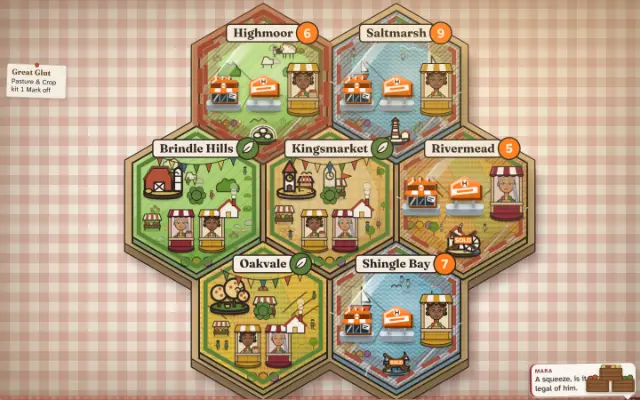
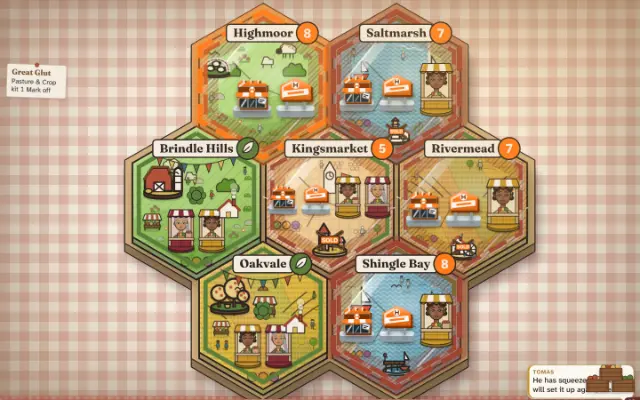
Cathnivore key art re-shot (regionGround.ts changed: memo only, art unchanged); lane A 22:51 notes
Claude-Session: https://claude.ai/code/session_01SimvMNEWqF9u68uxp4P8Cc

Changed region(s): [[0.2812, 0.0, 0.8438, 0.99], [0.8125, 0.9, 1.0, 1.0], [0.5625, 0.0, 0.6875, 0.06]]

diff --git a/PROGRESS.md b/PROGRESS.md
@@ -3,25 +3,12 @@
 Short by design (SPEC 16: under 150 lines). v1's full history (M0 to M7, every session's notes and the full deploy log) is in `docs/archive/PROGRESS-v1.md`; search it with grep and never read it in full.
 
 ## Now
+- Lane A (22:51 11-26): CI green on 3fc4c720; its E2E red was infrastructure (one shard's browser install: the runner's packages.microsoft.com apt source 403'd; every shard that ran passed); e2e.yml now drops that source before retrying (11a3c8c9). **Gate 7, two more cuts** (7348e3b1, 62ab820b): stalls draw their producer through a <use> of one portrait per producer and face (title board 2233 -> 1850 nodes, pixel-identical at P and D); pickSpot's inside-the-hex test cached per scale (pieceLayout 103 -> 58 ms, landmarkSpot 91 -> 43 ms at 4x); regionGround memoized. A/B here: FCP 900 -> 840 ms (4x traces); Lighthouse base 82/85/85/82, new 87/85/86. Found: the mount's forced layouts (measure, fitPlaques) are the page's and board's first layouts, not extra; what's left before FCP is React's ~2,800-node commit, style (166 KB critical CSS) and layout. Post-FCP animation frames: 532 of 558 board animations fail compositing with reason 131076 (an SVG-target reason); the next cut. Open unclaimed: 319, 543, 722-726.
 - Lane A (21:51 11-26): CI and E2E green on 5ae73a45. **Gate 7 root work** (blocks tomorrow's 19:51 release): 3fc4c720 builds the board once at its measured size (the title's first task 530-635 -> 436-475 ms at 4x, 3+3 traces). Lighthouse here reads 80-86 on identical builds, so a change under ~300 ms can't be seen in a 3-run score. Found: (1) after FCP the long tasks are animation frames: the board's ~70 SVG transform animations (folk, awnings, idle sheep/boats, amb-glide) aren't composited, so every frame re-runs Layout 20-37 ms + Paint at 4x; that is the next cut (fewer animated SVG nodes, or one composited HTML layer); (2) a boot card painted from index.html (a fixed .boot div after #root, its CSS in the critical sheet, faded by main.tsx after two rAFs) moves FCP 3.1 -> 1.6 s but puts the mount task after FCP, so TBT 150 -> 850 and the score falls (71-72): only worth it once the mount is under ~100 ms; its text also loses LCP to the Daily button (58k px2). Open unclaimed: 319, 543, 722-726. Lock released.
 - Lane A (20:51 11-26, release retry): **release not retried: gate 7 needs a root fix first** (Lighthouse alone on 6ddb7132 reads 78/81/78 here, gate is 85). Diagnosis: FCP = LCP = the menu's Daily line at 3.2-3.4 s because the first render includes the title board (2,235 of 3,213 DOM nodes, one ~860 ms task at 4x incl. forced layouts in Map's getScreenCTM measure and fitPlaques). Tried and reverted: mounting the board a frame after first paint (FCP/LCP 3.4 -> 2.6 s, but TBT 280 -> 460-650: same 79 average over 3+3 runs), and startTransition (worse). The root fix is cutting the board's mount cost on the title (fewer nodes: e.g. the static terrain/land layers drawn as one cached image, folk/pieces after paint), then deferring it. 726: portfolio phone gutter fixed (e2e), seed counter closed by measurement; handed back. **The 19:51 session on 11-27 releases** once gate 7 is fixed. Open unclaimed: 319, 543, 722-726. Lock released.
 - Lane A (19:51 11-26, release session): CI and E2E green on 6ddb7132. **Release not shipped: gate 7 Lighthouse 79, rerun of part c alone 77** (gates 1-6 passed, 2943 unit tests). Alone by hand: 6ddb7132 reads 81/84, the 11-25 release 6100ff2a 83/86 today (91 yesterday), so most of the drop is the machine and the build is ~2 points worse (index.js +4 KB, critical CSS +4 KB since 6100ff2a; FCP 3.2 s). Per DECISIONS 11-22 not rerun until lucky: **the 20:51 session retries once**; root fix wanted for margin (critical CSS 170 KB raw / 34 KB sent is the render-blocking piece). 726 slice looked at and handed back: the phone title with full names (shortNames off) gives 4 of 7 full at 14.3 px but Highmoor's plate goes under Cath's arm and Saltmarsh's disc onto its 'h'; needs the title's own fit (Cath's arm as an obstacle). Open unclaimed: 319, 543, 722-726. Lock released.
 - Lane A (18:51 11-26): CI green on 703c61ab, E2E green on 8e0eb921. 719 done (NIGHT SHIFT: the arrival stall staffed, a fishmonger and a customer on every tier; near-spawn census L 10, D 13; e2e cathode-street L and D; cathode-perf alone within budget). Planned 722-726 (shots e2e/screenshots/plan1126d, one subagent critique). No full check run. **The 19:51 session is the release session.** Open unclaimed: 319, 543, 722-726. Lock released.
 - Lane A (17:51 11-26): CI green on 8d0ba6e1, E2E green on c79bb817. 721 done (NIGHT SHIFT briefing: the canal's and FLOODED's names on paper plates, the canal's clear of the flyover; Hedgerow 2D: a tower's keep-off box measured from its sprite, so the swarm badge and Cath's line keep off the windmill's sails and mast tip at l34; Hedgerow key art re-shot). 719 slice 1 (three people near the market spawn on every tier), handed back. No full check run. Open unclaimed: 319, 543, 719. Lock released.
-- Lane A (16:51 11-26): CI red on ad848086/77d13356 fixed (keyart-fresh: Cathnivore key art re-shot after 717). e2e board-objects fixed (desktop case at 1280x800, below item 708's ledger). 718 done (portfolio phone: Cath's bubble names the print playing; NIGHT SHIFT's print lit by a neon spill, luminance 0.10 -> 0.13). 720 done (Hedgerow map: bunting on cleared stops, lane trodden to Next and pale beyond, locked stops say what opens them). 721: Runnel solved D closed by decision; still open: l34 2D D dodge, NIGHT SHIFT briefing labels; handed back. Open unclaimed: 319, 543, 719, 721. Lock released.
-- Lane A (15:51 11-26): CI and E2E green on 5741242a. 717 done (Cathnivore board alive: shoppers in every region by state, awnings stir, mill smoke; e2e board-folk). Found: e2e/board-objects.spec.ts fails at D since item 708's ledger hid the scoreboard objects (not in CI's gate-5 list, so unseen; fix or retire the spec). No full check run. Open unclaimed: 319, 543, 718-721. Lock released.
-- Lane A (14:51 11-26): E2E red on 12f6b5f9 fixed at the root (runnel-tiles channel contrast 2.85-3.25 on CI: the phone board's garden cut grew on every re-run against a 100% height still settling while the fonts load, so about one load in five drew the board 15-35% small; now a px cap on its drawn height, identical in 10 of 10 loads; clouds still under reduced motion). The cathode 3/8 red on 12f6b5f9 was the sideways FIRE overlap e1b610ed already fixed. Planned 717-721 (shots e2e/screenshots/plan1126c, one subagent critique); 721 slice 1 (three Cathnivore points closed by measurement), handed back. No full check run. Open unclaimed: 319, 543, 717-721. Lock released.
-- Lane A (13:51 11-26): E2E red on 66d30f33 fixed (cathode-phone-controls: item 712's Pin fist 1.2% onto FIRE sideways; phone fist further in, half the lean). 714 done (Cathnivore phone board names every region in full: plates step down to 17.5 units, 12 px+, before shortening). 716 done (NIGHT SHIFT phone pick gun propped upright right of her, clear of the Ghost; Market badge measured whole; campaign D column closed by decision). 715 done (portfolio D wall tours: prints play in turn, Cath points at and names the playing one until someone points). Planning started but not finished (mark removed; partial shots e2e/screenshots/plan1126c, no critique): the next session plans. Open unclaimed: 319, 543. Lock released.
-- Lane A (12:51 11-26): 713 done (Hedgerow: Cath speaks mid-round, a line with her portrait in a field corner on leak, boss, combo, Pie, Rally or neighbours, one per 8 s, off lane/rack/Go; Rally a 0.8 s cast; 2D idle sway, 50 px floor on small fields; key art re-shot). 716 slice 1 (Hedgerow P grip clear of the packets; two closed by measurement), handed back. CI on 66d30f33 not in at the start (9fbf2df2's CI red, fixed by 66d30f33; its E2E green). No full check run. Open unclaimed: 319, 543, 714, 715, 716. Lock released.
-- Lane A (11:51 11-26): E2E red on df1164bf was infrastructure (a stale apt index 404'd one shard's browser install; e2e.yml now refreshes and retries); 9d631034's E2E green. 711 done (Runnel dry fields red sun-baked clay, crazed, seedling drooped; water sets off mid-turn; e2e runnel-parched); CI red on 9fbf2df2 (runnel-tilefaces' model still mixed green) fixed in 66d30f33. 712 done (NIGHT SHIFT Pin: wound leather grip, worn steel, collars; held forward-right in the lower-right box at D and L; thumb closed on the grip; perf within budget alone). No full check run. Open unclaimed: 319, 543, 713-716. Lock released.
-- Lane A (10:51 11-26): 709 done (slice 4: the lit class gun large across the foot of her stage on an upright phone, the sheet's weapon row one line, a third tree stamp wraps; e2e cathode-classpick). 678 closed by measurement (item 652's framing meets it; e2e cathode-title-phone now holds the accept). Planned 711-716 (shots e2e/screenshots/plan1126b, one subagent critique; 716 includes 709's stage gun crossing the Ghost's skirt). **E2E red on 3e9bd1a0:** runnel-tiles (P, light) 'channel vs tile, morning,clouds' read 2.788 < 3 on CI, identically in the run and the alone-retry (so deterministic there), yet passes 5/5 locally on its fixed 17 Nov board (--retries=0, --repeat-each=4); nothing Runnel-side changed since the green 6dbcbd6b (same spec passed on CI at 10:38). Suspect something under morning,clouds keyed to the real clock or the runner (cloud drift?): check df1164bf's E2E, then print r.chan per tile on CI's frame and fix at the root. No full check run. Open unclaimed: 319, 543, 711-716. Lock released.
-- Lane A (09:51 11-26): E2E red on 5773e1e6 fixed (hedgerow-phone-crisp: a 'Bridge up!' callout dodged under the l27 windmill rose back into it; the dodge now keeps the whole climb clear). 709 slice 3 (phone stats one row of ring dials, a tap opens the bars), handed back: the gun across her foot still open. No full check run. Open unclaimed: 319, 543, 678, 709. Lock released.
-- Lane A (08:51 11-26): E2E red on 312b609a fixed (tutorial desktop: the chapter seal card under item 708's ledger took the Menu click; fonts.spec: ledger figures left Marrow Figures); seals stand above Cath's dock on an upright phone (hidden whole before); Pell steps down a size clear of a chapter's name plates. 709 slices 1-2 (phone roster in colour, red rule under the pick, 8 px tab gaps; trees one line of stamps opening on 'What they do'), handed back: the role carousel with the gun across her foot still open. Open unclaimed: 319, 543, 678, 709. Lock released.
-- Lane A (07:51 11-26): E2E red on 1d585e26/63ce086e fixed (hedgerow-convoy-gap desktop: a lorry 20 px onto the depot; the lane start now tests the real body box, bends never ease back behind it). 710 done (Hedgerow l27 3D depot whole: the fit waits for placement, the lean sees every corner, the view steps back; new e2e hedgerow-depot3d-frame). No full check run. Open unclaimed: 319, 543, 678, 709. Lock released.
-- Lane A (06:51 11-26): E2E red on 991b02d3 fixed (cathode-classpose: one page load, the pick's own class switch; 13.6 -> 2.7 min). 708 done (D 1400x860+: readings a ruled paper ledger, 22 px figures; Pell 120 px). 710: setup D notice and NIGHT SHIFT Ledger ghost fixed, MUM closed; the Hedgerow l27 3D depot cut still open, handed back. Open unclaimed: 319, 543, 678, 709, 710. Lock released.
-- Lane A (05:51 11-26): 707 done (Hedgerow 2D convoy: six lane rungs drawn from above, one silhouette a class; 7 px between bodies, clear of the depot; e2e hedgerow-convoy-gap). 708 measured and handed back. Open unclaimed: 319, 543, 678, 708-710. Lock released.
-- Lane A (04:51 11-26): E2E red on 82447b03 fixed (cathode-phone-viewmodel desktop, a timing flake for the third time: the dip wait now counts frames). 706 done (Hedgerow 2D gains pooled one '+N' a spot; one swarm badge a lane, docked by its depot). 710 looked at and handed back (setup D flyer measured, still over the board frame and stall; the Hedgerow rack peek closed by design). Full npm run check passed (342 files, 2903 tests, lint, fuzz, build). Open unclaimed: 319, 543, 678, 707-710. Lock released.
-- Lane A (03:51 11-26): 703 done (shadow intensity under the low sun, green pickup, hue unit test, key art re-shot). Open unclaimed: 319, 543, 678, 706-710. Lock released.
 - Round-7 'hang' (owner session note, 11-16) checked by lane A 11:10: test-only. `?e2eAutoplayUntil` halted the AI teammate's seat too, so its Kingsmarket bonus choice was never made; real play uses the worker path, which acts on a decision the AI owns. The stop now applies to the human's seat only.
 - E2E red on hedgerow-water (11-15 04:35) fixed by lane A 05:10: the spec samples Rivermead's willow pond (level 31); Saltmarsh's salt pan is pink brine by design (item 399).
 - Owner session (11-09): the owner's release never landed and the pause ended 11-11 02:00 UTC. **Open:** Hedgerow level 12 at D: since item 250's portrait the bubble covers 21% of empty plots; the D bound is 30% there until the placement is reworked.
@@ -55,6 +42,7 @@ None (Vercel deployed 9aee11e on 2026-10-12). (The App Store launch is postponed
 - 2026-11-03 02:18 `69a74c7`: urgent fix (NIGHT SHIFT touch buttons that never took a tap) plus plan items 44 and 45 and 46 slices 1-2 in progress. Gates 1-8 passed on the third run: the first two failed on a real desktop Invest-card overflow (fixed, 4e8121f), a load timeout in the gun-parts test (budget raised) and the CSS ratchet (z-index literal, two raw colours; fixed); live smoke passed outright; tag push 403 (harmless).
 
 ## Session log (newest first, last 15)
+- **2026-11-26 22:51 lane A:** gate 7 (3 code commits incl. e2e.yml). e2e board-stalls, piece-art, producer-faces, board-folk, title-attract (P and D, --retries=0; the 4x long-task case flakes on the base build here too, new 3 of 3); unit landmark-spot, piece-layout, region-ground, region-folk, title-board, map-layout, stall-layout, piece-looks, producer-art; full npm run check: typecheck, lint, 2942 of 2943 unit tests (keyart-fresh: Cathnivore key art re-shot after regionGround.ts changed, then green); fuzz and build not reached in that run (CI runs them).
 - **2026-11-26 21:51 lane A:** gate 7 (1 code commit, 3fc4c720). e2e title-table, -plates, -fit, -attract, -opening, region-names-phone, board-folk, -landmarks, -pieces, -scale, -stalls, -tokens, -control, -doubt, region-status, -closeup, phone-map-hero, table-zoom, title (P and D, --retries=0): all pass but title-attract:60 (52 ms task, fails the same on the base) and board-scale:11 D (known); board-tokens passes alone. Full npm run check run. Full npm run check passed (345 files, 2943 tests).
 - **2026-11-26 20:51 lane A:** gate 7 diagnosis (no code kept: deferral was score-neutral), 726 two points (1 code commit). e2e portfolio-present (P and D, 5 passed, --retries=0); ui-css-lint, keyart-fresh; Lighthouse x9 alone (scratchpad lh-*.json). Shots scratchpad pf-before/pf-after, h726 (l27 2D P and D). No full check.
 - 2026-11-26 19:51-20:45 lane A: release run, gate 7 failed (Lighthouse 79, 77 alone); not shipped, handed to the 20:51 retry with measurements. 726 title-names attempt reverted (plates collide with Cath's arm and a disc).
@@ -69,4 +57,3 @@ None (Vercel deployed 9aee11e on 2026-10-12). (The App Store launch is postponed
 - **2026-11-26 09:51 lane A:** E2E fix + 709 slice 3 (2 code commits). hedgerow-phone-crisp reproduced locally and passing after the fix (with hedgerow-swarm), new unit test in hedgerow-callout-dodge; cathode-classpick full file 22 passed before the last tweak, its phone stat test passing after; shots P/D in scratchpad s709 (D unchanged). No full check.
 - **2026-11-26 08:51 lane A:** E2E fix + 709 slices (4 code commits). tutorial (desktop, the CI failure), chapter-seals (new sizes test, P 390/375 and D 1440; the old phone 'open to labels' test failed on the base locally, the dock hid the card: passes now), hud-ledger (new chapter check), rival, drawer-tabs; fonts.spec Cathnivore (site); cathode-classpick (new 709 test; 'stat sheet reads' updated for the trees line), cathode-front, -skillpreview, -armoury (34 passed, 0 failed when the session ended; the run was left to CI); ui-css-lint, cathode-type, keyart-fresh, tsc, eslint; --retries=0. No full check (CI covers). Shots scratchpad tut-fail, seal-*, pell-after, s709 (before, a1 P/L, a2 P/D).
 - **2026-11-26 07:51 lane A:** E2E fix + 710 done (2 code commits + key art). hedgerow-convoy-gap, -swarm (29 drawn with a padded depot-mouth rule; strict overlap keeps 30), -convoy, -depot, -depot-clear, -fleet-read; hedgerow-depot3d-frame (new, l27/l21, P and D: failed 4/4 on l27 before), -3dframe, -camera3d, -closeframe, -depot3d (33 passed). Shots e2e/screenshots/r710, swarm45. Key art re-shot.
-- **2026-11-26 06:51 lane A:** E2E fix + 708 done + 710 slices (5 code commits). cathode-classpose (P 1.3 min, D 2.7 min); hud-ledger (new: ledger sizes, Pell 120, no overlaps, AA ledger and slab, light and dark), rival, board-scale, gantry-slate, drawer-tabs (updated: word beside its figure), phone-counter; setup-week-notice (new) and all setup-* specs (52); cathode-frontpage, -title-phone (P); ui-css-lint, cathode-type, keyart-fresh, tsc, eslint; --retries=0. board-scale:11 and drawer-tabs:5 fail identically on the base locally (left to CI). No full check (CI covers). Shots scratchpad s708 (before, a1-a8 incl. 1400 and 1920), s710 (setup before/a1/a2, mum, ns before/a1/a2, h27-3d).

diff --git a/docs/archive/PROGRESS-sessions.md b/docs/archive/PROGRESS-sessions.md
@@ -28,3 +28,19 @@
 - **2026-11-25 12:51 lane A:** 694 done, 692 slice 1 (3 code commits). runnel-rail-cath (new: 1440 rail figure, face 60+, bubble off face, mood on tap/solve, reduced motion, 1280 stays in the valley), runnel-one-cath (full-length test at 1280x800, bubble checked against her head in the rail), runnel-win (1440 + 1280 postcard), all Runnel e2e P and D (ditch D a load flake, passes alone); hedgerow-panel-share (new), tray, packets, attack (load flake, passes alone), cathlevel 3D footprints (passes alone) and 20 more Hedgerow D specs; runnel/hedgerow-host-mood unit, css lint, keyart-fresh (Hedgerow re-shot), tsc, eslint; --retries=0. Shots scratchpad b-/a1-* (Runnel P, D, solved), hb-/ha-/hc-h27/h34-D.
 - **2026-11-25 15:51 lane A:** 692 done (1 code commit), 695 looked at. hedgerow-tray, -rack, -rack-roles, -packets, -panel-share (D; tray:120 a webfont flake on the base too, 1 of 3 red; now waits for fonts, 4/4), ui-css-lint, tsc, eslint; --retries=0. No full check (13:51 ran one). Shots e2e/screenshots/h692, g695.
 - **2026-11-25 17:51 lane A:** E2E diagnosis + 693 done + 695 slice 5 (3 code commits). setup-stall-pair (new, D x2 + phone), setup-desktop/-steps/-objects/-focal/-table/-spread/-phone/-placecards/-maps/-opening, title-bubble (all pass, --retries=0); cathode-phone-viewmodel desktop passes alone locally; css lint, cathode-type, keyart-fresh, tsc, eslint. No full check (CI covers). Shots /tmp/claude-0/b67/a3-*, e2e/screenshots/ns695.- **2026-11-26 05:51 lane A:** 707 done (2 code commits + key art twice). hedgerow-convoy-gap (new, P and D: 0 overlaps, 0 on the depot), hedgerow-readable, -vehicles (courier 19 px at P failed first; lengthened), -convoy, -fleet-read, -closeframe, -swarm, -single-file (all pass); hedgerow unit tests (74 files) incl. new hedgerow-fleet-top (18), keyart-fresh, tsc, eslint; --retries=0. No full check (04:51 ran one; CI covers). Shots scratchpad b707 (before), a707c, a707e (l27, l34 P and D), b708.
+
+- Lane A (16:51 11-26): CI red on ad848086/77d13356 fixed (keyart-fresh: Cathnivore key art re-shot after 717). e2e board-objects fixed (desktop case at 1280x800, below item 708's ledger). 718 done (portfolio phone: Cath's bubble names the print playing; NIGHT SHIFT's print lit by a neon spill, luminance 0.10 -> 0.13). 720 done (Hedgerow map: bunting on cleared stops, lane trodden to Next and pale beyond, locked stops say what opens them). 721: Runnel solved D closed by decision; still open: l34 2D D dodge, NIGHT SHIFT briefing labels; handed back. Open unclaimed: 319, 543, 719, 721. Lock released.
+- Lane A (15:51 11-26): CI and E2E green on 5741242a. 717 done (Cathnivore board alive: shoppers in every region by state, awnings stir, mill smoke; e2e board-folk). Found: e2e/board-objects.spec.ts fails at D since item 708's ledger hid the scoreboard objects (not in CI's gate-5 list, so unseen; fix or retire the spec). No full check run. Open unclaimed: 319, 543, 718-721. Lock released.
+- Lane A (14:51 11-26): E2E red on 12f6b5f9 fixed at the root (runnel-tiles channel contrast 2.85-3.25 on CI: the phone board's garden cut grew on every re-run against a 100% height still settling while the fonts load, so about one load in five drew the board 15-35% small; now a px cap on its drawn height, identical in 10 of 10 loads; clouds still under reduced motion). The cathode 3/8 red on 12f6b5f9 was the sideways FIRE overlap e1b610ed already fixed. Planned 717-721 (shots e2e/screenshots/plan1126c, one subagent critique); 721 slice 1 (three Cathnivore points closed by measurement), handed back. No full check run. Open unclaimed: 319, 543, 717-721. Lock released.
+- Lane A (13:51 11-26): E2E red on 66d30f33 fixed (cathode-phone-controls: item 712's Pin fist 1.2% onto FIRE sideways; phone fist further in, half the lean). 714 done (Cathnivore phone board names every region in full: plates step down to 17.5 units, 12 px+, before shortening). 716 done (NIGHT SHIFT phone pick gun propped upright right of her, clear of the Ghost; Market badge measured whole; campaign D column closed by decision). 715 done (portfolio D wall tours: prints play in turn, Cath points at and names the playing one until someone points). Planning started but not finished (mark removed; partial shots e2e/screenshots/plan1126c, no critique): the next session plans. Open unclaimed: 319, 543. Lock released.
+- Lane A (12:51 11-26): 713 done (Hedgerow: Cath speaks mid-round, a line with her portrait in a field corner on leak, boss, combo, Pie, Rally or neighbours, one per 8 s, off lane/rack/Go; Rally a 0.8 s cast; 2D idle sway, 50 px floor on small fields; key art re-shot). 716 slice 1 (Hedgerow P grip clear of the packets; two closed by measurement), handed back. CI on 66d30f33 not in at the start (9fbf2df2's CI red, fixed by 66d30f33; its E2E green). No full check run. Open unclaimed: 319, 543, 714, 715, 716. Lock released.
+- Lane A (11:51 11-26): E2E red on df1164bf was infrastructure (a stale apt index 404'd one shard's browser install; e2e.yml now refreshes and retries); 9d631034's E2E green. 711 done (Runnel dry fields red sun-baked clay, crazed, seedling drooped; water sets off mid-turn; e2e runnel-parched); CI red on 9fbf2df2 (runnel-tilefaces' model still mixed green) fixed in 66d30f33. 712 done (NIGHT SHIFT Pin: wound leather grip, worn steel, collars; held forward-right in the lower-right box at D and L; thumb closed on the grip; perf within budget alone). No full check run. Open unclaimed: 319, 543, 713-716. Lock released.
+- Lane A (10:51 11-26): 709 done (slice 4: the lit class gun large across the foot of her stage on an upright phone, the sheet's weapon row one line, a third tree stamp wraps; e2e cathode-classpick). 678 closed by measurement (item 652's framing meets it; e2e cathode-title-phone now holds the accept). Planned 711-716 (shots e2e/screenshots/plan1126b, one subagent critique; 716 includes 709's stage gun crossing the Ghost's skirt). **E2E red on 3e9bd1a0:** runnel-tiles (P, light) 'channel vs tile, morning,clouds' read 2.788 < 3 on CI, identically in the run and the alone-retry (so deterministic there), yet passes 5/5 locally on its fixed 17 Nov board (--retries=0, --repeat-each=4); nothing Runnel-side changed since the green 6dbcbd6b (same spec passed on CI at 10:38). Suspect something under morning,clouds keyed to the real clock or the runner (cloud drift?): check df1164bf's E2E, then print r.chan per tile on CI's frame and fix at the root. No full check run. Open unclaimed: 319, 543, 711-716. Lock released.
+- Lane A (09:51 11-26): E2E red on 5773e1e6 fixed (hedgerow-phone-crisp: a 'Bridge up!' callout dodged under the l27 windmill rose back into it; the dodge now keeps the whole climb clear). 709 slice 3 (phone stats one row of ring dials, a tap opens the bars), handed back: the gun across her foot still open. No full check run. Open unclaimed: 319, 543, 678, 709. Lock released.
+- Lane A (08:51 11-26): E2E red on 312b609a fixed (tutorial desktop: the chapter seal card under item 708's ledger took the Menu click; fonts.spec: ledger figures left Marrow Figures); seals stand above Cath's dock on an upright phone (hidden whole before); Pell steps down a size clear of a chapter's name plates. 709 slices 1-2 (phone roster in colour, red rule under the pick, 8 px tab gaps; trees one line of stamps opening on 'What they do'), handed back: the role carousel with the gun across her foot still open. Open unclaimed: 319, 543, 678, 709. Lock released.
+- Lane A (07:51 11-26): E2E red on 1d585e26/63ce086e fixed (hedgerow-convoy-gap desktop: a lorry 20 px onto the depot; the lane start now tests the real body box, bends never ease back behind it). 710 done (Hedgerow l27 3D depot whole: the fit waits for placement, the lean sees every corner, the view steps back; new e2e hedgerow-depot3d-frame). No full check run. Open unclaimed: 319, 543, 678, 709. Lock released.
+- Lane A (06:51 11-26): E2E red on 991b02d3 fixed (cathode-classpose: one page load, the pick's own class switch; 13.6 -> 2.7 min). 708 done (D 1400x860+: readings a ruled paper ledger, 22 px figures; Pell 120 px). 710: setup D notice and NIGHT SHIFT Ledger ghost fixed, MUM closed; the Hedgerow l27 3D depot cut still open, handed back. Open unclaimed: 319, 543, 678, 709, 710. Lock released.
+- Lane A (05:51 11-26): 707 done (Hedgerow 2D convoy: six lane rungs drawn from above, one silhouette a class; 7 px between bodies, clear of the depot; e2e hedgerow-convoy-gap). 708 measured and handed back. Open unclaimed: 319, 543, 678, 708-710. Lock released.
+- Lane A (04:51 11-26): E2E red on 82447b03 fixed (cathode-phone-viewmodel desktop, a timing flake for the third time: the dip wait now counts frames). 706 done (Hedgerow 2D gains pooled one '+N' a spot; one swarm badge a lane, docked by its depot). 710 looked at and handed back (setup D flyer measured, still over the board frame and stall; the Hedgerow rack peek closed by design). Full npm run check passed (342 files, 2903 tests, lint, fuzz, build). Open unclaimed: 319, 543, 678, 707-710. Lock released.
+- Lane A (03:51 11-26): 703 done (shadow intensity under the low sun, green pickup, hue unit test, key art re-shot). Open unclaimed: 319, 543, 678, 706-710. Lock released.
+- **2026-11-26 06:51 lane A:** E2E fix + 708 done + 710 slices (5 code commits). cathode-classpose (P 1.3 min, D 2.7 min); hud-ledger (new: ledger sizes, Pell 120, no overlaps, AA ledger and slab, light and dark), rival, board-scale, gantry-slate, drawer-tabs (updated: word beside its figure), phone-counter; setup-week-notice (new) and all setup-* specs (52); cathode-frontpage, -title-phone (P); ui-css-lint, cathode-type, keyart-fresh, tsc, eslint; --retries=0. board-scale:11 and drawer-tabs:5 fail identically on the base locally (left to CI). No full check (CI covers). Shots scratchpad s708 (before, a1-a8 incl. 1400 and 1920), s710 (setup before/a1/a2, mum, ns before/a1/a2, h27-3d).

diff --git a/DECISIONS.md b/DECISIONS.md
@@ -241,3 +241,6 @@ Newest at the bottom. At most 5 lines per entry, under 250 lines in all (SPEC 16
 - 2026-11-26 22:20 lane A (gate 7): the board draws an empty svg until measured (it was drawn once without trays, then again in the same task); no visual change, as the measure runs before the first paint.
 - 2026-11-26 22:20 lane A (gate 7): a boot card from index.html rejected for now: FCP 3.1 -> 1.6 s, but TBT counts from FCP, so the title's mount task (~450 ms at 4x) lands in it (150 -> 850) and the score drops ~12 points. Revisit once the mount is under ~100 ms.
 - 2026-11-26 22:20 lane A (gate 7): not changing the gate's server (brotli would match Vercel and cut ~20% of the JS) or rerunning until lucky; the next cuts are the board's per-frame SVG layout from ~70 uncomposited animations, then the mount's pieceLayout/fitPlaques work.
+- 2026-11-26 23:20 lane A (E2E infra): e2e.yml deletes any apt source naming packages.microsoft.com before retrying the browser install; Playwright's deps come from Ubuntu's archive, so a third-party source going 403 must not fail a shard.
+- 2026-11-26 23:20 lane A (gate 7): the board's producer portraits are shared (<use> of an <svg> in the board's <defs>, one per producer and face), not a <symbol>: paint servers in defs render in every engine and WebKit can't be tested here.
+- 2026-11-26 23:20 lane A (gate 7): cut the mount's work, not move it (as 11-26 21:30 found): fewer nodes and cached pure layout math; fitPlaques' forced layout is the board's first layout, so deferring it only trades FCP for TBT.
